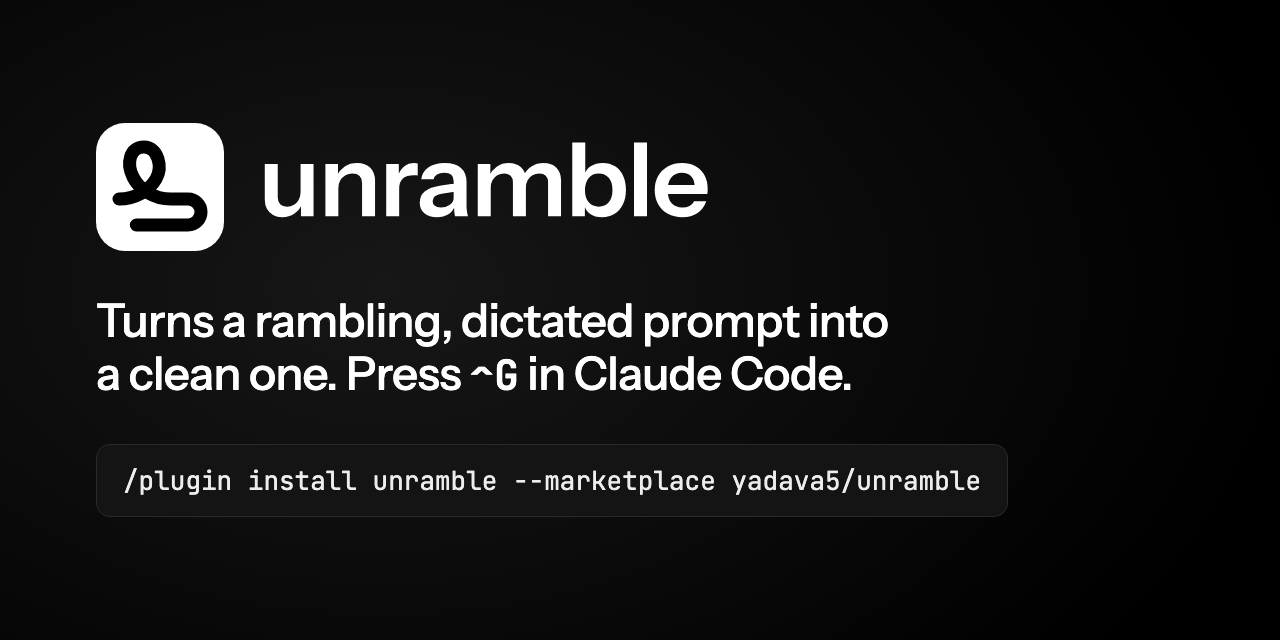
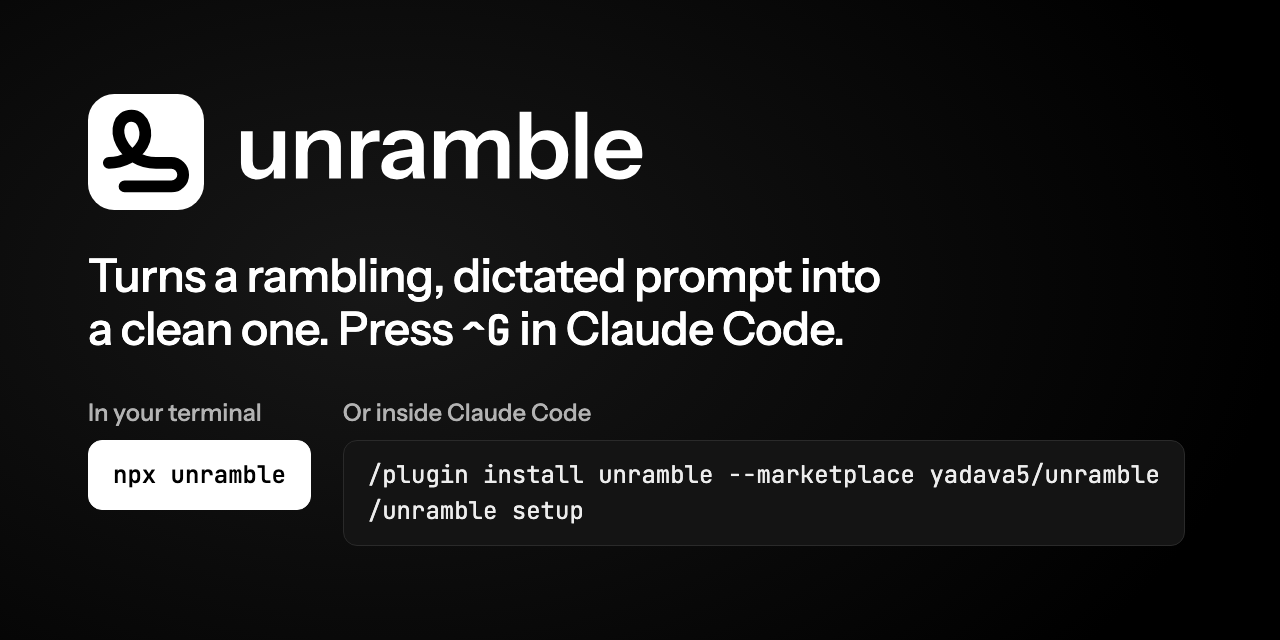
docs(video): label where each install command is typed
The end card, LinkedIn cover and social preview now show two labelled paths:
"In your terminal" npx unramble (inverted chip, the one the eye takes first)
and "Or inside Claude Code" /plugin install … then /unramble setup. Labels use
the text face; only commands and URLs are mono. Rendered and checked by eye
(social preview, cover, end card at 27 s of the mp4).

Changed region(s): [[0.0625, 0.125, 0.7188, 0.6562], [0.0625, 0.6875, 0.9062, 0.8125]]

diff --git a/video/src/LinkedIn.tsx b/video/src/LinkedIn.tsx
@@ -1,7 +1,7 @@
 import type { CSSProperties, ReactNode } from "react";
 import { AbsoluteFill, Easing, interpolate, Sequence, useCurrentFrame } from "remotion";
 import { Compare } from "./Compare";
-import { INSTALL, REPO } from "./copy";
+import { INSTALL, type InstallPath, NPM, REPO } from "./copy";
 import { KeyCaps } from "./KeyCaps";
 import { Wordmark } from "./Mark";
 import { Terminal } from "./Terminal";
@@ -44,7 +44,36 @@ export const commandChip: CSSProperties = {
   fontVariantLigatures: "none",
   color: color.fg,
   whiteSpace: "pre",
+  lineHeight: 1.5,
 };
+
+/** The short path is inverted, like the logo tile, so it is the one the eye takes first. */
+export const primaryChip: CSSProperties = {
+  ...commandChip,
+  background: color.paper,
+  border: `1px solid ${color.paper}`,
+  color: color.canvas,
+  fontWeight: 500,
+};
+
+/** Where a command is typed. Prose, so the text face; only the command itself is mono. */
+export const where = (fontSize: number): CSSProperties => ({
+  fontFamily: font.sans,
+  fontWeight: 500,
+  fontSize,
+  lineHeight: 1.2,
+  color: color.dim,
+});
+
+type InstallProps = { path: InstallPath; primary?: boolean; labelSize: number; fontSize: number; padding: string; style?: CSSProperties };
+
+/** A label over its command chip; a path with several commands stacks them one per line. */
+export const Install = ({ path, primary = false, labelSize, fontSize, padding, style }: InstallProps) => (
+  <div style={{ display: "flex", flexDirection: "column", alignItems: "flex-start", gap: Math.round(labelSize * 0.5), ...style }}>
+    <div style={where(labelSize)}>{path.where}</div>
+    <div style={{ ...(primary ? primaryChip : commandChip), fontSize, padding }}>{path.commands.join("\n")}</div>
+  </div>
+);
 
 /** ⌃G set as a key name: JetBrains Mono carries the ⌃ glyph, Instrument Sans does not. */
 export const Keys = ({ children }: { children: ReactNode }) => (
@@ -149,20 +178,26 @@ export const EndCard = ({ frame }: { frame: number }) => {
   const draw = interpolate(frame, [8, 42], [0, 1], { ...clamp, easing: Easing.inOut(Easing.cubic) });
   const word = rise(frame, 30, 12);
   const line = rise(frame, 46);
-  const chip = rise(frame, 56);
-  const repo = rise(frame, 64);
+  const terminal = rise(frame, 56);
+  const claudeCode = rise(frame, 66);
+  const links = rise(frame, 76);
   const lift = (p: number): CSSProperties => ({ opacity: p, transform: `translateY(${(1 - p) * 18}px)` });
   return (
     <AbsoluteFill style={{ justifyContent: "center", padding: `0 ${M + 32}px` }}>
       <div style={{ opacity: tile, transform: `scale(${0.92 + 0.08 * tile})`, transformOrigin: "left center" }}>
         <Wordmark height={150} tile={color.paper} stroke={color.canvas} text={color.paper} draw={draw} textOpacity={word} />
       </div>
-      <div style={{ ...headline, ...lift(line), fontSize: 50, lineHeight: 1.14, fontWeight: 500, letterSpacing: "-0.015em", marginTop: 72, maxWidth: 920, textWrap: "wrap" }}>
+      <div style={{ ...headline, ...lift(line), fontSize: 50, lineHeight: 1.14, fontWeight: 500, letterSpacing: "-0.015em", marginTop: 64, maxWidth: 920, textWrap: "wrap" }}>
         {/* No-break spaces keep "Claude Code" and "No API key." whole, so the line breaks after "plan." */}
         Free. Runs on your Claude{" "}Code plan. No{" "}API{" "}key.
       </div>
-      <div style={{ ...commandChip, ...lift(chip), marginTop: 56, padding: "22px 28px", fontSize: 25 }}>{INSTALL}</div>
-      <div style={{ ...lift(repo), marginTop: 30, fontFamily: font.mono, fontSize: 30, color: color.dim }}>{REPO}</div>
+      {/* 26px is the widest the 55-character /plugin line runs inside the 920px column. */}
+      <Install path={INSTALL.terminal} primary labelSize={30} fontSize={46} padding="12px 30px" style={{ ...lift(terminal), marginTop: 64 }} />
+      <Install path={INSTALL.claudeCode} labelSize={30} fontSize={26} padding="18px 26px" style={{ ...lift(claudeCode), marginTop: 44 }} />
+      <div style={{ ...lift(links), marginTop: 48, fontFamily: font.mono, fontSize: 28, lineHeight: 1.5, color: color.dim }}>
+        <div>{REPO}</div>
+        <div>{NPM}</div>
+      </div>
     </AbsoluteFill>
   );
 };

diff --git a/video/src/Stills.tsx b/video/src/Stills.tsx
@@ -1,7 +1,7 @@
 import { AbsoluteFill } from "remotion";
 import { Compare } from "./Compare";
 import { INSTALL } from "./copy";
-import { commandChip, headline, HOOK_FIRST, HOOK_SECOND, Keys } from "./LinkedIn";
+import { headline, HOOK_FIRST, HOOK_SECOND, Install, Keys, primaryChip, where } from "./LinkedIn";
 import { Wordmark } from "./Mark";
 import { color, spotlight } from "./theme";
 
@@ -19,19 +19,27 @@ export const LinkedInCover = () => (
       {/* Frame far past the last strike: every dropped phrase is struck. */}
       <Compare frame={1000} width={984} fontSize={23} />
     </div>
-    <div style={{ position: "absolute", left: 80, bottom: 48 }}>
+    {/* Only the short path: the cover's job is the hook, the end card carries both. */}
+    <div style={{ position: "absolute", left: 80, right: 80, bottom: 48, height: 56, display: "flex", alignItems: "center", justifyContent: "space-between" }}>
       <Wordmark height={56} tile={color.paper} stroke={color.canvas} text={color.paper} />
+      <div style={{ display: "flex", alignItems: "center", gap: 22 }}>
+        <div style={where(26)}>{INSTALL.terminal.where}</div>
+        <div style={{ ...primaryChip, alignSelf: "center", fontSize: 30, padding: "4px 22px" }}>{INSTALL.terminal.commands[0]}</div>
+      </div>
     </div>
   </AbsoluteFill>
 );
 
-/** GitHub social preview, 1280×640. */
+/** GitHub social preview, 1280×640. The two install paths sit side by side, short one first. */
 export const SocialPreview = () => (
-  <AbsoluteFill style={{ background: spotlight("30%", "45%", "70% 90%"), justifyContent: "center", padding: "0 96px" }}>
-    <Wordmark height={128} tile={color.paper} stroke={color.canvas} text={color.paper} />
-    <div style={{ ...headline, fontSize: 46, lineHeight: 1.15, fontWeight: 500, letterSpacing: "-0.015em", marginTop: 44, maxWidth: 980 }}>
+  <AbsoluteFill style={{ background: spotlight("30%", "45%", "70% 90%"), justifyContent: "center", padding: "0 88px" }}>
+    <Wordmark height={116} tile={color.paper} stroke={color.canvas} text={color.paper} />
+    <div style={{ ...headline, fontSize: 46, lineHeight: 1.15, fontWeight: 500, letterSpacing: "-0.015em", marginTop: 40, maxWidth: 980 }}>
       Turns a rambling, dictated prompt into a clean one. Press <Keys>⌃G</Keys> in Claude Code.
     </div>
-    <div style={{ ...commandChip, marginTop: 44, padding: "18px 26px", fontSize: 26 }}>{INSTALL}</div>
+    <div style={{ display: "flex", alignItems: "flex-start", gap: 32, marginTop: 44 }}>
+      <Install path={INSTALL.terminal} primary labelSize={24} fontSize={24} padding="16px 24px" />
+      <Install path={INSTALL.claudeCode} labelSize={24} fontSize={24} padding="16px 24px" />
+    </div>
   </AbsoluteFill>
 );

diff --git a/video/src/copy.ts b/video/src/copy.ts
@@ -33,5 +33,16 @@ export const BAND = {
 // The plugin's toast, word for word. Wraps after the "·" when the frame is narrow.
 export const TOAST = "unramble: done in 3.3s with sonnet on your plan · ⌃G again restores your original";
 
-export const INSTALL = "/plugin install unramble --marketplace yadava5/unramble";
+// The two install paths from the README, word for word. `where` names the place each is
+// typed; plugin installs bind nothing until `/unramble setup` runs, so it travels with it.
+export const INSTALL = {
+  terminal: { where: "In your terminal", commands: ["npx unramble"] },
+  claudeCode: {
+    where: "Or inside Claude Code",
+    commands: ["/plugin install unramble --marketplace yadava5/unramble", "/unramble setup"],
+  },
+} as const;
+export type InstallPath = (typeof INSTALL)[keyof typeof INSTALL];
+
 export const REPO = "github.com/yadava5/unramble";
+export const NPM = "npmjs.com/package/unramble";
